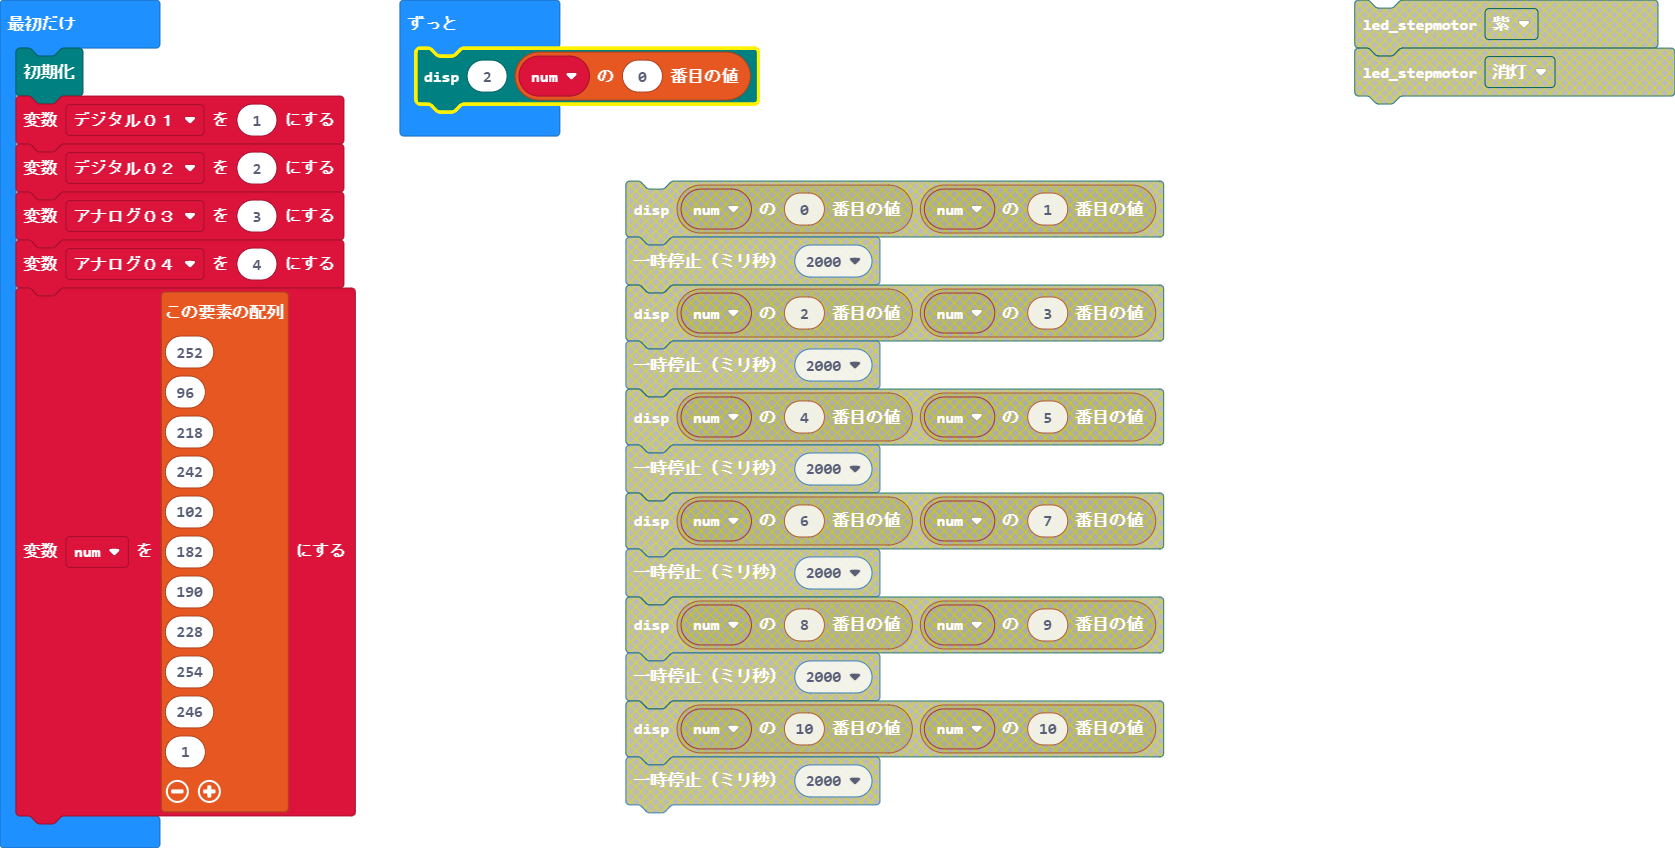
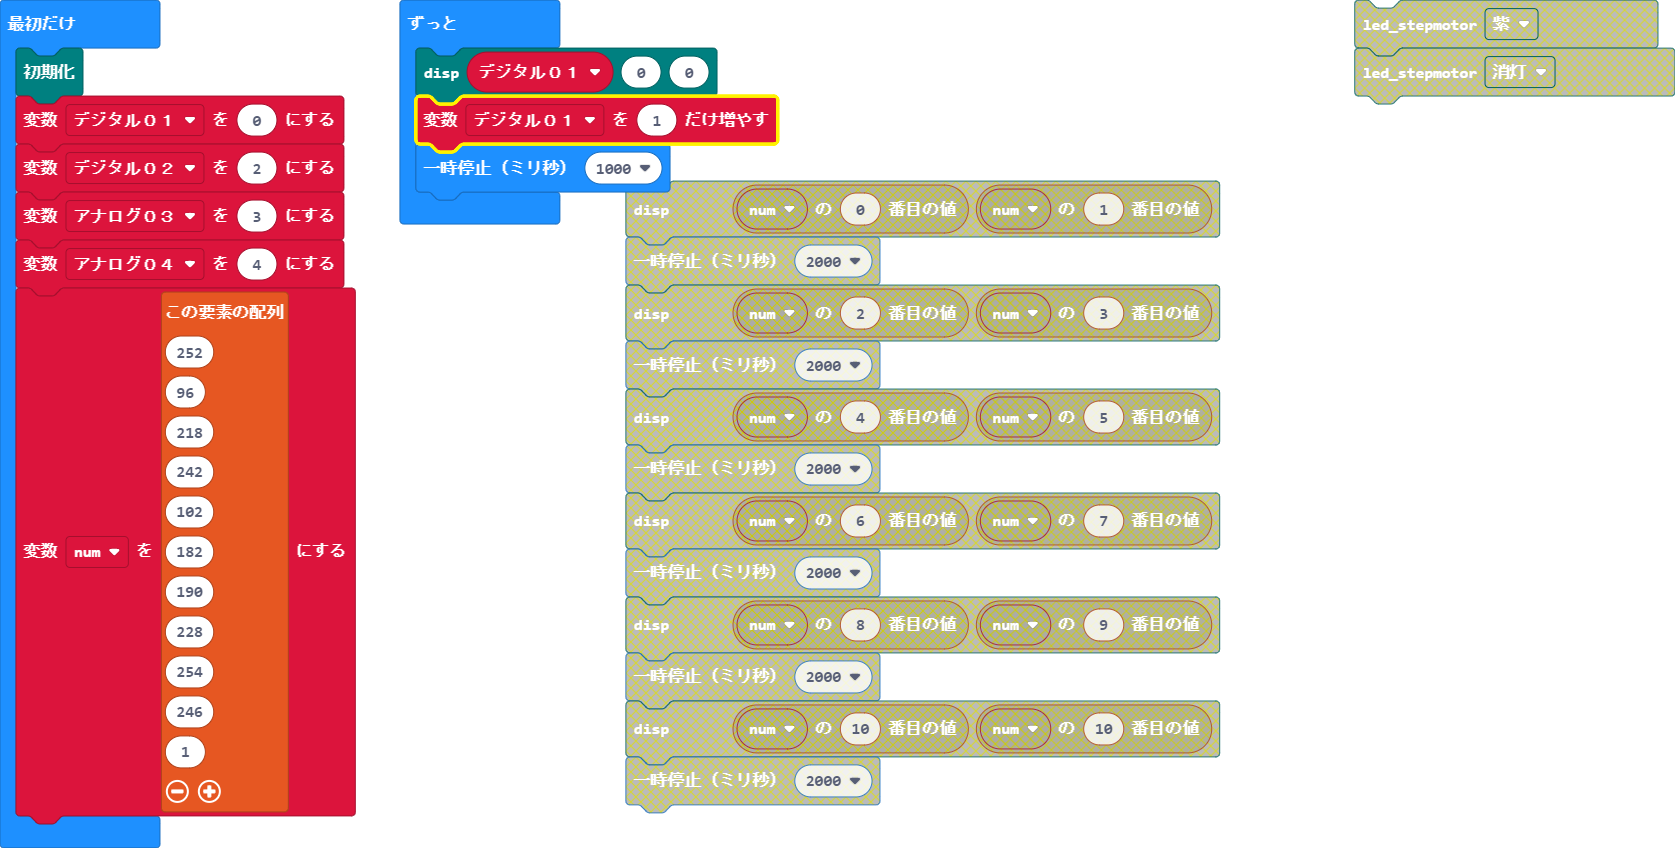
disp関数に数値を表示できるようにした

diff --git a/custom.ts b/custom.ts
@@ -21,33 +21,7 @@ enum color_type {
     //% block="白"
     white
 }
-enum LED_view {
-    //% block="消灯"
-    black,
-    //% block="そのまま"
-    pre,
-    //% block="0"
-    zero,
-    //% block="1"
-    one,
-    //% block="2"
-    two,
-    //% block="3"
-    three,
-    //% block="4"
-    four,
-    //% block="5"
-    five,
-    //% block="6"
-    six,
-    //% block="7"
-    seven,
-    //% block="8"
-    eight,
-    //% block="9"
-    nine,
 
-}
 enum io {
     //% block="デジタル０１"
     digital01,
@@ -438,11 +412,82 @@ namespace custom {
     }
 
     //% block
-    export function disp(led_l: number, led_r: number): void {
+    export function disp(numeric: number,led_l: number, led_r: number): void {
+
         let led_value
+        if (numeric > 100) {
+            numeric = 99
+        }
+        let numeric_l = Math.floor(numeric / 10)
+        switch (numeric_l) {
+            case 0:
+                led_value = 0
+                break;
+            case 1:
+                led_value = 96
+                break;
+            case 2:
+                led_value = 218
+                break;
+            case 3:
+                led_value = 242
+                break;
+            case 4:
+                led_value = 102
+                break;
+            case 5:
+                led_value = 182
+                break;
+            case 6:
+                led_value = 190
+                break;
+            case 7:
+                led_value = 228
+                break;
+            case 8:
+                led_value = 254
+                break;
+            case 9:
+                led_value = 246
+                break;
+        }
+        let numeric_r = numeric % 10
+        switch (numeric_r) {
+            case 0:
+                led_value += 252 * 256
+                break;
+            case 1:
+                led_value += 96 * 256
+                break;
+            case 2:
+                led_value += 218 * 256
+                break;
+            case 3:
+                led_value += 242 * 256
+                break;
+            case 4:
+                led_value += 102 * 256
+                break;
+            case 5:
+                led_value += 182 * 256
+                break;
+            case 6:
+                led_value += 190 * 256
+                break;
+            case 7:
+                led_value += 228 * 256
+                break;
+            case 8:
+                led_value += 254 * 256
+                break;
+            case 9:
+                led_value += 246 * 256
+                break;
+        }
+
 //        serial.writeValue("led_r", led_r)
 //        serial.writeValue("led_l", led_l)
-        led_value = led_l + led_r * 256
+//        led_value = led_l + led_r * 256
 
         //        serial.writeValue("pre", pre_led_value)
 //        led_value = led_l + led_r * 256

diff --git a/main.ts b/main.ts
@@ -1,5 +1,5 @@
 custom.config_ini()
-let デジタル０１ = 1
+let デジタル０１ = 0
 let デジタル０２ = 2
 let アナログ０３ = 3
 let アナログ０４ = 4
@@ -17,5 +17,7 @@ let num = [
 1
 ]
 basic.forever(function () {
-    custom.disp(2, num[0])
+    custom.disp(デジタル０１, 0, 0)
+    デジタル０１ += 1
+    basic.pause(1000)
 })
